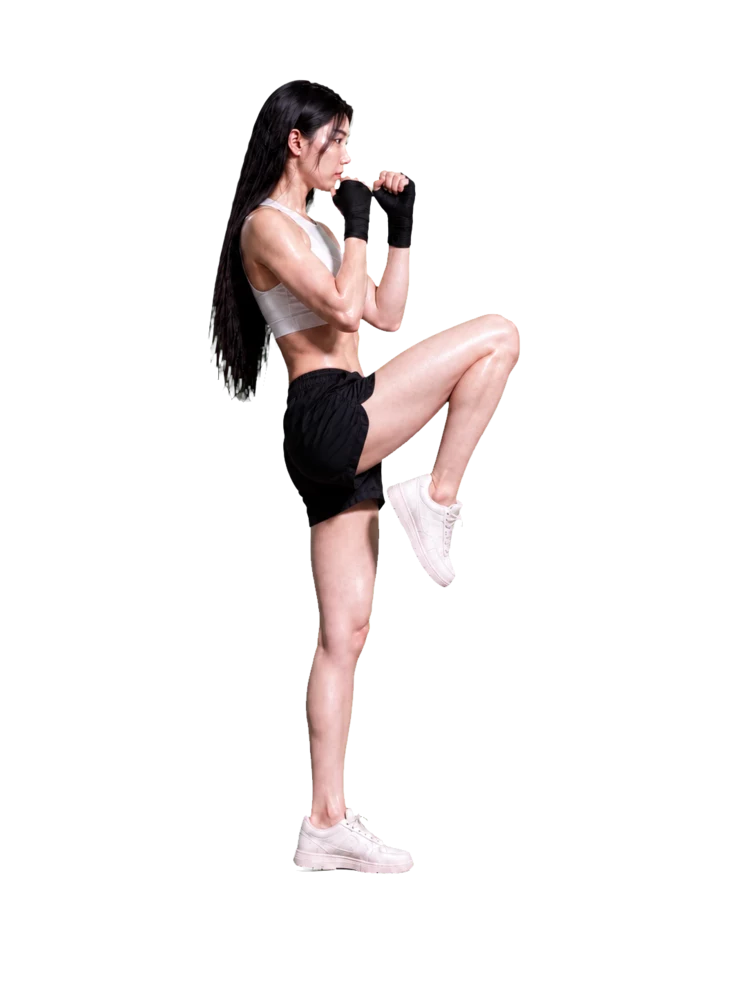
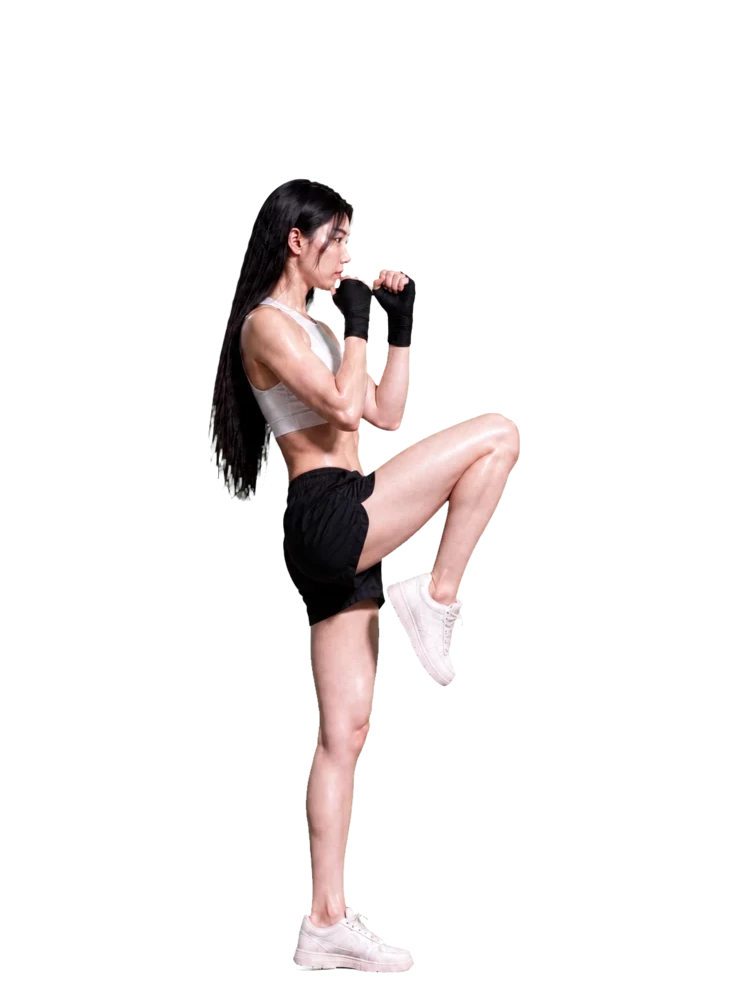
Align battle sprites to shared ground line

Changed region(s): [[0.276, 0.062, 0.7053, 0.992]]

diff --git a/styles.css b/styles.css
@@ -106,15 +106,15 @@ dialog { background:#0b1915; color:#d5fbea; border:1px solid #69ffc7; width:min(
 .battle-animation-stage{position:relative;isolation:isolate;height:clamp(400px,52vw,560px);overflow:hidden;background:#06100e;border-top:1px solid rgba(255,255,255,.025)}
 .battle-animation-stage::before{content:"";position:absolute;z-index:-2;inset:0;background:linear-gradient(180deg,rgba(19,46,37,.22),transparent 54%),linear-gradient(0deg,rgba(31,73,59,.16),transparent 23%)}
 .battle-animation-stage::after{content:"";position:absolute;z-index:-1;left:3%;right:3%;bottom:7%;height:1px;background:linear-gradient(90deg,transparent,#32705d 22%,#32705d 78%,transparent);box-shadow:0 12px 28px 5px rgba(0,0,0,.55)}
-.battle-animation-frame{position:absolute;z-index:3;left:-2%;bottom:1.5%;display:block;width:70%;height:97%;object-fit:contain;object-position:left bottom;opacity:0;filter:drop-shadow(0 18px 15px rgba(0,0,0,.72));transform-origin:48% 82%;transition:opacity 45ms linear,transform 90ms ease-out}
+.battle-animation-frame{position:absolute;z-index:3;left:-2%;bottom:1.5%;display:block;width:70%;height:97%;object-fit:contain;object-position:left bottom;opacity:0;filter:drop-shadow(0 18px 15px rgba(0,0,0,.72));transform-origin:48% 97.4%;transition:opacity 45ms linear,transform 90ms ease-out}
 .battle-animation-frame.is-active{opacity:1}.battle-animation-stage[data-action="attack"] .battle-animation-frame{width:68%}.battle-animation-stage[data-action="brawl"] .battle-animation-frame{left:-4%;width:83%}
 .battle-animation-stage[data-phase="aim"] .battle-animation-frame.is-active{transform:translateX(2.5%) rotate(-.35deg)}.battle-animation-stage[data-phase="shot"] .battle-animation-frame.is-active{transform:translateX(3.5%) scale(1.006)}.battle-animation-stage[data-phase="recoil"] .battle-animation-frame.is-active{transform:translateX(.5%) rotate(-1deg)}.battle-animation-stage[data-phase="approach"] .battle-animation-frame.is-active{transform:translateX(6%)}.battle-animation-stage[data-phase="jab"] .battle-animation-frame.is-active{transform:translateX(9%) scale(1.012)}.battle-animation-stage[data-phase="chamber"] .battle-animation-frame.is-active{transform:translateX(5%) rotate(-.4deg)}.battle-animation-stage[data-phase="kick"] .battle-animation-frame.is-active{transform:translateX(10%) scale(1.02)}
-.battle-enemy-frame{position:absolute;z-index:2;right:1%;bottom:1.5%;display:block;width:45%;height:94%;object-fit:contain;object-position:right bottom;opacity:0;filter:drop-shadow(0 18px 15px rgba(0,0,0,.78)) drop-shadow(0 0 10px var(--enemy-accent));transform-origin:55% 88%;transition:opacity 70ms linear,transform 160ms ease-out,filter 130ms ease}.battle-enemy-frame.is-active{opacity:1}.battle-animation-stage[data-phase="shot"] .battle-enemy-frame[data-battle-enemy-frame="hit"].is-active,.battle-animation-stage[data-phase="kick"] .battle-enemy-frame[data-battle-enemy-frame="hit"].is-active,.battle-animation-stage[data-phase="hold"] .battle-enemy-frame[data-battle-enemy-frame="hit"].is-active{transform:translateX(5%) rotate(1.4deg);filter:drop-shadow(0 18px 15px rgba(0,0,0,.78)) drop-shadow(0 0 22px rgba(255,75,86,.72))}
+.battle-enemy-frame{position:absolute;z-index:2;right:1%;bottom:1.5%;display:block;width:45%;height:94%;object-fit:contain;object-position:right bottom;opacity:0;filter:drop-shadow(0 18px 15px rgba(0,0,0,.78)) drop-shadow(0 0 10px var(--enemy-accent));transform-origin:55% 97.4%;transition:opacity 70ms linear,transform 160ms ease-out,filter 130ms ease}.battle-enemy-frame.is-active{opacity:1}.battle-animation-stage[data-phase="shot"] .battle-enemy-frame[data-battle-enemy-frame="hit"].is-active,.battle-animation-stage[data-phase="kick"] .battle-enemy-frame[data-battle-enemy-frame="hit"].is-active,.battle-animation-stage[data-phase="hold"] .battle-enemy-frame[data-battle-enemy-frame="hit"].is-active{transform:translateX(5%) rotate(1.4deg);filter:drop-shadow(0 18px 15px rgba(0,0,0,.78)) drop-shadow(0 0 22px rgba(255,75,86,.72))}
 .battle-muzzle,.battle-tracer,.battle-casing,.battle-impact{position:absolute;z-index:5;pointer-events:none;opacity:0}.battle-muzzle{left:52%;top:40%;width:56px;aspect-ratio:1;background:radial-gradient(circle,#fff 0 6%,#ffef9a 8% 16%,#ff9d39 18% 28%,transparent 58%);filter:drop-shadow(0 0 12px #ffbe4d)}.battle-tracer{left:55%;top:43%;right:16%;height:2px;background:linear-gradient(90deg,#fff,#ffe288 22%,transparent);transform-origin:left center}.battle-casing{left:48%;top:37%;width:12px;height:4px;border-radius:50%;background:#f5c96d;box-shadow:0 0 6px #ffd784}.battle-impact{right:13%;top:33%;width:68px;aspect-ratio:1;background:radial-gradient(circle,#fff 0 5%,#ffb64f 7% 13%,#ff585f 17% 26%,transparent 58%);filter:drop-shadow(0 0 12px #ff555d)}
 .battle-animation-damage{position:absolute;z-index:8;right:12%;top:22%;color:#fff2ab;font-size:clamp(1.65rem,4vw,2.8rem);line-height:1;text-shadow:0 2px 0 #811e28,0 0 16px #ff5962;opacity:0;transform:translateY(16px) scale(.7)}
 .battle-animation-stage[data-phase="shot"] .battle-muzzle{animation:battle-flash 115ms steps(2,end)}.battle-animation-stage[data-phase="shot"] .battle-tracer{animation:battle-tracer 115ms linear}.battle-animation-stage[data-phase="shot"] .battle-impact,.battle-animation-stage[data-phase="jab"] .battle-impact,.battle-animation-stage[data-phase="kick"] .battle-impact{animation:battle-flash 150ms steps(2,end)}.battle-animation-stage[data-phase="recoil"] .battle-casing{animation:battle-casing 420ms ease-out}.battle-animation-stage[data-phase="shot"] .battle-animation-damage,.battle-animation-stage[data-phase="kick"] .battle-animation-damage,.battle-animation-stage[data-phase="hold"] .battle-animation-damage{animation:battle-damage 540ms ease-out both}
 .battle-animation-stage[data-action="brawl"] .battle-muzzle,.battle-animation-stage[data-action="brawl"] .battle-tracer,.battle-animation-stage[data-action="brawl"] .battle-casing{display:none}.battle-animation-stage[data-action="brawl"] .battle-impact{right:14%;top:24%;background:radial-gradient(circle,#fff 0 5%,#ffe29c 7% 15%,#ec777d 18% 29%,transparent 60%)}
-.battle-team-support-frame{position:absolute;z-index:4;left:5%;bottom:1%;display:block;width:61%;height:96%;object-fit:contain;object-position:left bottom;opacity:0;filter:drop-shadow(0 18px 15px rgba(0,0,0,.72));transform:translateX(-12%) scale(.96);transform-origin:45% 86%;transition:opacity 150ms ease,transform 220ms ease-out}.battle-team-support-frame.is-active{opacity:1}.battle-animation-stage[data-action="team-support"] .battle-animation-frame{opacity:0}.battle-animation-stage[data-action="team-support"][data-phase="enter"] .battle-team-support-frame{transform:translateX(-5%) scale(.98)}.battle-animation-stage[data-action="team-support"][data-phase="act"] .battle-team-support-frame{transform:translateX(5%) scale(1.02)}.battle-animation-stage[data-action="team-support"][data-phase="hold"] .battle-team-support-frame{transform:translateX(3%) scale(1.01)}.battle-animation-stage[data-action="team-support"][data-phase="exit"] .battle-team-support-frame{opacity:0;transform:translateX(-12%) scale(.96)}
+.battle-team-support-frame{position:absolute;z-index:4;left:5%;bottom:1%;display:block;width:61%;height:96%;object-fit:contain;object-position:left bottom;opacity:0;filter:drop-shadow(0 18px 15px rgba(0,0,0,.72));transform:translateX(-12%) scale(.96);transform-origin:45% 97.4%;transition:opacity 150ms ease,transform 220ms ease-out}.battle-team-support-frame.is-active{opacity:1}.battle-animation-stage[data-action="team-support"] .battle-animation-frame{opacity:0}.battle-animation-stage[data-action="team-support"][data-phase="enter"] .battle-team-support-frame{transform:translateX(-5%) scale(.98)}.battle-animation-stage[data-action="team-support"][data-phase="act"] .battle-team-support-frame{transform:translateX(5%) scale(1.02)}.battle-animation-stage[data-action="team-support"][data-phase="hold"] .battle-team-support-frame{transform:translateX(3%) scale(1.01)}.battle-animation-stage[data-action="team-support"][data-phase="exit"] .battle-team-support-frame{opacity:0;transform:translateX(-12%) scale(.96)}
 .battle-team-support-wave{position:absolute;z-index:2;left:24%;bottom:15%;width:42%;height:48%;border:2px solid rgba(92,244,198,.7);border-radius:50%;opacity:0;transform:scale(.35);pointer-events:none}.battle-animation-stage[data-action="team-support"][data-phase="act"] .battle-team-support-wave,.battle-animation-stage[data-action="team-support"][data-phase="hold"] .battle-team-support-wave{animation:battle-support-wave 620ms ease-out both}.battle-player-damage{position:absolute;z-index:9;left:28%;top:18%;color:#ffd1d3;font-size:clamp(1.65rem,4vw,2.8rem);line-height:1;text-shadow:0 2px 0 #811e28,0 0 18px #ff3342;opacity:0}.battle-animation-stage[data-phase="player-hit"] .battle-player-damage[aria-hidden="false"]{animation:battle-damage 540ms ease-out both}
 .battle-animation-stage[data-phase="enemy-counter"]{animation:battle-enemy-counter 260ms ease-out}.battle-animation-stage[data-phase="enemy-counter"] .battle-enemy-frame.is-active{transform:translateX(-14%) scale(1.035);filter:drop-shadow(0 18px 15px rgba(0,0,0,.78)) drop-shadow(0 0 24px var(--enemy-accent))}.battle-animation-stage[data-phase="player-hit"] .battle-animation-frame.is-active,.battle-animation-stage[data-phase="player-hit"] .battle-team-support-frame.is-active{transform:translateX(-5%) rotate(-1.2deg);filter:drop-shadow(0 18px 15px rgba(0,0,0,.72)) drop-shadow(0 0 20px rgba(255,57,68,.55))}.battle-animation-stage[data-phase="enemy-defeat"] .battle-enemy-frame.is-active{transform:translateY(2%) scale(.98);filter:grayscale(.35) drop-shadow(0 14px 12px rgba(0,0,0,.8))}.battle-animation-stage[data-phase="enemy-break"] .battle-enemy-frame.is-active{animation:battle-morale-break 360ms ease-in-out;filter:grayscale(.2) drop-shadow(0 14px 12px rgba(0,0,0,.8))}.battle-animation-stage[data-phase="enemy-retreat"] .battle-enemy-frame.is-active{opacity:.08;transform:translateX(105%) scale(.9)}.battle-animation-stage[data-phase="player-retreat"] .battle-animation-frame.is-active,.battle-animation-stage[data-phase="player-retreat"] .battle-team-support-frame.is-active{opacity:0;transform:translateX(-115%) scale(.92)}
 @keyframes battle-flash{0%{opacity:0;transform:scale(.45) rotate(0)}30%{opacity:1;transform:scale(1.18) rotate(22deg)}100%{opacity:0;transform:scale(.72) rotate(35deg)}}

diff --git a/sw.js b/sw.js
@@ -1,4 +1,4 @@
-const CACHE = "crime-five-roads-v49";
+const CACHE = "crime-five-roads-v50";
 const FILES = [
   "./", "./index.html", "./play.html", "./styles.css", "./manifest.webmanifest", "./dist/game.bundle.js",
   "./assets/icons/icon-192.png", "./assets/icons/icon-512.png", "./assets/icons/icon-maskable-512.png", "./assets/icons/apple-touch-icon.png", "./assets/icons/favicon-32.png",
